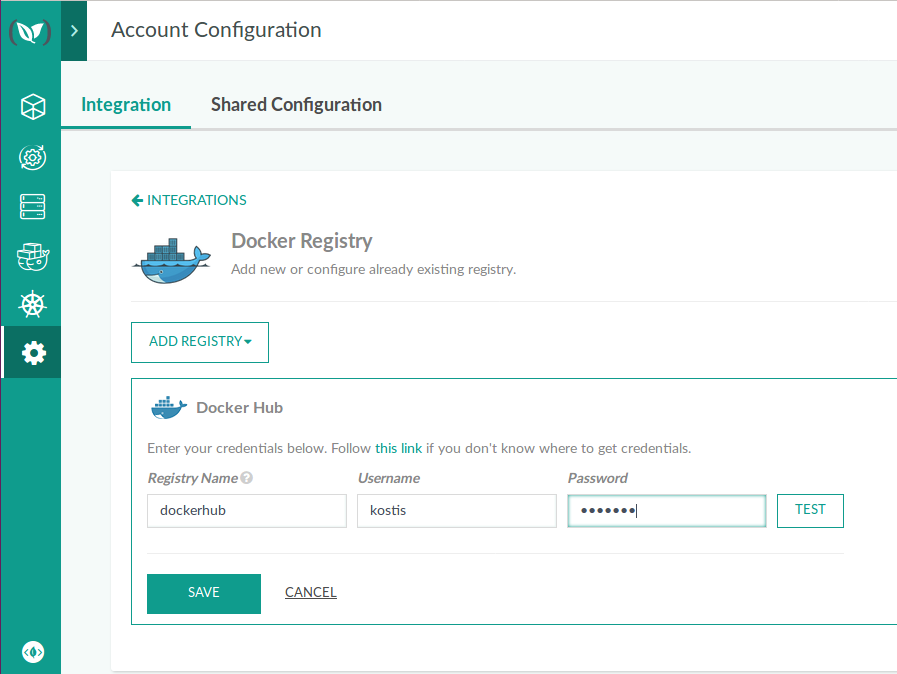
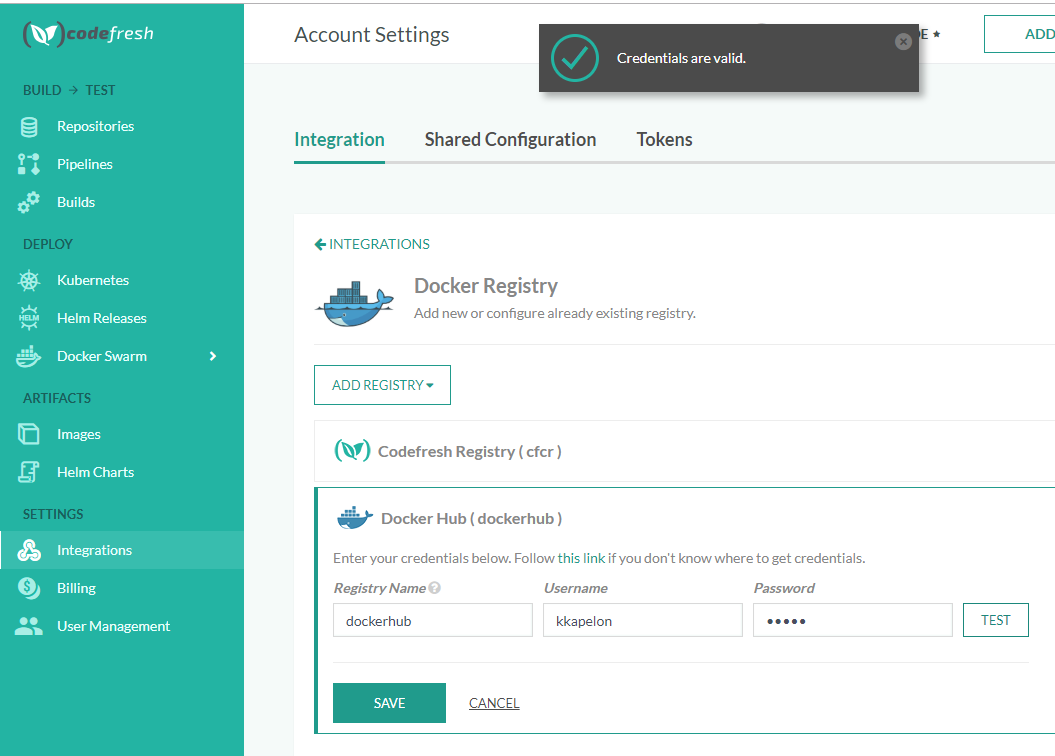
Quick start updates with new UI

Changed region(s): [[0.0, 0.0, 1.0, 1.0], [0.3122, 0.4985, 0.437, 0.5297], [0.2809, 0.4674, 0.3122, 0.4985]]

diff --git a/_docs/getting-started/create-a-basic-pipeline.md b/_docs/getting-started/create-a-basic-pipeline.md
@@ -33,7 +33,7 @@ example if you prefer (don't forget to write unit tests).
 For this tutorial you will need
 
  * a free [Github account](https://github.com/join)
- * a free [Codefresh account]({{ site.baseurl }}/docs/getting-started/create-a-codefresh-account/) 
+ * a free [Codefresh account]({{site.baseurl}}/docs/getting-started/create-a-codefresh-account/) 
  * the source code of the sample application.
  * (Optional) Git and Docker installed on your local workstation 
  * (Optional) an account to a Docker registry (e.g. Dockerhub)
@@ -112,7 +112,7 @@ Because all Codefresh capabilities are based on Docker images, Docker is also se
 
 
 The example application already comes with its own Dockerfile, making the creation of a Codefresh pipeline very easy.
-Let's start by going into the [Codefresh dashboard](https://g.codefresh.io/repositories) (after [creating your account]({{ site.baseurl }}/docs/getting-started/create-a-codefresh-account/))
+Let's start by going into the [Codefresh dashboard](https://g.codefresh.io/repositories) (after [creating your account]({{site.baseurl}}/docs/getting-started/create-a-codefresh-account/))
 
 ###  Selecting your Git repository
 
@@ -326,7 +326,7 @@ max-width="60%"
 %}
 
 This concludes the basic build for the example application. Codefresh offers several more capabilities 
-than the ones shown here. If you have an application that has a more complex build process than a single Dockerfile, you should instead spend some time to read the [YAML documentation]({{ site.baseurl }}/docs/codefresh-yaml/what-is-the-codefresh-yaml/).
+than the ones shown here. If you have an application that has a more complex build process than a single Dockerfile, you should instead spend some time to read the [YAML documentation]({{site.baseurl}}/docs/codefresh-yaml/what-is-the-codefresh-yaml/).
 
 
 ## Storing Docker images in Codefresh
@@ -368,7 +368,7 @@ Among the information shown, you can clearly see:
 This information can help you to easily correlate the changes that exist in each Docker images, which is very important knowledge when it comes to deployments (explained in detail in the next tutorial).
 
 If you click on a Docker image you will get many more details about it including a timeline of the labels for this Docker image. You also have the ability to enter custom comments that describe any event that you consider important. Codefresh
-really shines when it comes to annotating your Docker images with metadata. For more details read the section [Annotations]({{ site.baseurl }}/docs/docker-registries/metadata-annotations/)
+really shines when it comes to annotating your Docker images with metadata. For more details read the section [Annotations]({{site.baseurl}}/docs/docker-registries/metadata-annotations/)
 
 {% include 
 image.html 
@@ -416,9 +416,10 @@ max-width="80%"
 Docker images are one of the central concepts in Codefresh pipelines as everything revolves around them. Powerful Codefresh pipelines can be created by using Docker images as build tools, so it is perfectly normal if you manage a large number of images which are not strictly packaged applications. You may create Docker images that contain building or deployment tools and are used as part of
 the build process instead of the build result.
 
-For the purposes of this tutorial we will push our sample application to [DockerHub](https://cloud.docker.com/) which is the free public Docker hosting from Docker Inc. You need to create a free account with the service first and note down your username and password.
+For the purposes of this tutorial we will push our sample application to [DockerHub](https://cloud.docker.com/) which is the free public Docker hosting from Docker Inc. You need to create a free account with the service first and note down your username and password. In your own projects you can use any other [external registry]({{site.baseurl}}/docs/docker-registries/external-docker-registries/) you wish.
 
-Once you create your Docker Cloud account, go to your Account Configuration, by clicking on *Configuration* on the left sidebar. Then open the *Integration* tab and click the *Add Registry* button.
+Once you create your Docker Cloud account, go to your Account Configuration, by clicking on *Integrations* on the left sidebar. Then open the *Integration* tab and click the *Configure* button next to *Docker Registry*.
+Finally click the *Add Registry* drop-down menu and select *Docker Hub*.
 
 {% include 
 image.html 
@@ -481,10 +482,10 @@ Pushing to the Docker Registry is the last step in the build pipeline. Now that 
 
 ## What to read next
 
-* [Deploy to Kubernetes]({{ site.baseurl }}/docs/getting-started/deployment-to-kubernetes-quick-start-guide/)
-* [Introduction to Pipelines]({{ site.baseurl }}/docs/configure-ci-cd-pipeline/introduction-to-codefresh-pipelines/)
-* [Codefresh YAML]({{ site.baseurl }}/docs/codefresh-yaml/what-is-the-codefresh-yaml/)
-* [On demand environments]({{ site.baseurl }}/docs/getting-started/on-demand-environments/)
+* [Deploy to Kubernetes]({{site.baseurl}}/docs/getting-started/deployment-to-kubernetes-quick-start-guide/)
+* [Introduction to Pipelines]({{site.baseurl}}/docs/configure-ci-cd-pipeline/introduction-to-codefresh-pipelines/)
+* [Codefresh YAML]({{site.baseurl}}/docs/codefresh-yaml/what-is-the-codefresh-yaml/)
+* [On demand environments]({{site.baseurl}}/docs/getting-started/on-demand-environments/)
 
 
 
